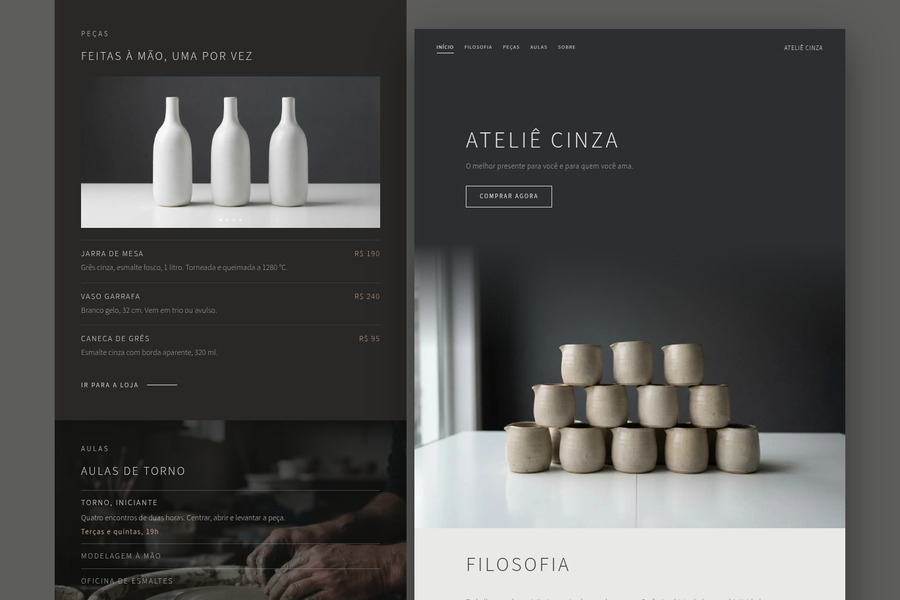
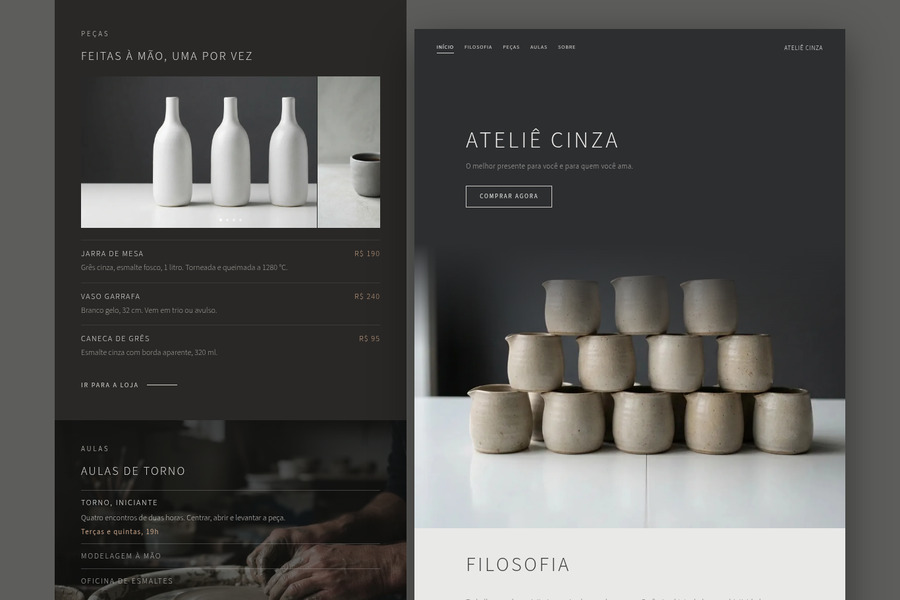
Ateliê Cinza: revisao a risca (jarras maiores, 2o slide, rodape mobile)

Changed region(s): [[0.4356, 0.42, 0.9644, 0.84], [0.3422, 0.12, 0.4356, 0.36], [0.4356, 0.81, 0.4667, 0.87]]

diff --git a/src/components/models/CinzaFold.tsx b/src/components/models/CinzaFold.tsx
@@ -41,7 +41,8 @@ export function CinzaFold({ client }: { client?: { name?: string; whatsapp?: str
         .cz .left .blk{padding:44px 40px 0}
         .cz .left h2{font-size:18px;color:#e9e7e4;margin-bottom:6px}
         .cz .car{position:relative;height:230px;margin-top:18px;background:#1a1a1a url(/cinza-vasos.webp) center 80%/cover no-repeat}
-        .cz .dots{display:flex;gap:6px;position:absolute;left:50%;bottom:10px;transform:translateX(-50%)}.cz .dots i{width:4px;height:4px;border-radius:50%;background:#fff;opacity:.5}.cz .dots i:first-child{opacity:1}
+        .cz .car:after{content:"";position:absolute;right:0;top:0;bottom:0;width:21%;background:#1a1a1a url(/cinza-copo.webp) center/cover no-repeat;border-left:1px solid #2a2927}
+        .cz .dots{z-index:2;display:flex;gap:6px;position:absolute;left:50%;bottom:10px;transform:translateX(-50%)}.cz .dots i{width:4px;height:4px;border-radius:50%;background:#fff;opacity:.5}.cz .dots i:first-child{opacity:1}
         .cz .pcs{margin-top:18px}.cz .pc{display:flex;justify-content:space-between;gap:16px;border-top:1px solid #3c3a37;padding:12px 0}
         .cz .pc h3{font-size:12px;letter-spacing:.14em;color:#e9e7e4}.cz .pc p{font-size:12px;line-height:1.55;color:#a9a7a3;margin:4px 0 0;font-weight:300;letter-spacing:0}.cz .pc b{font-weight:300;letter-spacing:.1em;color:${CL};font-size:12px;white-space:nowrap}
         .cz .more{display:inline-flex;gap:12px;align-items:center;margin-top:20px;font-size:10px;letter-spacing:.18em;text-transform:uppercase;color:#d8d6d2;text-decoration:none;cursor:pointer}.cz .more:after{content:"";width:46px;border-top:1px solid #d8d6d2}
@@ -62,7 +63,7 @@ export function CinzaFold({ client }: { client?: { name?: string; whatsapp?: str
         .cz nav.top .links{display:flex;gap:16px}.cz nav.top a{color:#d8d6d2;text-decoration:none;cursor:pointer;padding-bottom:3px;border-bottom:1px solid transparent}.cz nav.top a.on{border-color:#d8d6d2;color:#fff}
         .cz nav.top .lg{font-weight:300;color:#fff;font-size:9px}.cz .burger{display:none;background:none;border:0;color:#fff;font-size:26px;cursor:pointer}
         .cz .mob{position:fixed;inset:0;z-index:20;background:#1b1b1b;display:flex;flex-direction:column;justify-content:center;align-items:center;gap:30px;font-size:15px;letter-spacing:.2em;text-transform:uppercase}.cz .mob a{color:#fff;cursor:pointer}
-        .cz .hero{position:relative;color:#f3f2f0;background:linear-gradient(180deg,#2d2e30 0,#2d2e30 43%,rgba(45,46,48,0) 64%),url(/cinza-hero.webp) center bottom/100% auto no-repeat,#e9e9e8;padding:150px 0 0}
+        .cz .hero{position:relative;color:#f3f2f0;background:linear-gradient(180deg,#2d2e30 0,#2d2e30 43%,rgba(45,46,48,0) 64%),url(/cinza-hero.webp) 45% 100%/135% auto no-repeat,#e9e9e8;padding:150px 0 0}
         .cz .hero .in{padding:0 12%;position:relative;z-index:2}
         .cz .hero h1{font-size:clamp(24px,2.8vw,34px);color:#f3f2f0;line-height:1.15}
         .cz .hero p{margin:12px 0 22px;font-size:11px;letter-spacing:.04em;color:#bdbbb7;font-weight:300}
@@ -75,7 +76,7 @@ export function CinzaFold({ client }: { client?: { name?: string; whatsapp?: str
         .cz footer{background:#2a2826;padding:22px 20px;font-size:11px;letter-spacing:.14em;text-transform:uppercase;color:${MU}}.cz footer .wrap{max-width:1200px;margin:0 auto;display:flex;justify-content:space-between;gap:20px;flex-wrap:wrap}
         .cz .wa{position:fixed;right:22px;bottom:22px;width:56px;height:56px;border-radius:50%;background:#25d366;display:flex;align-items:center;justify-content:center;z-index:15;box-shadow:0 8px 22px rgba(0,0,0,.4)}
         @media(max-width:860px){
-          .cz .stage{grid-template-columns:1fr;padding:0 0 30px;display:flex;flex-direction:column}
+          .cz .stage{grid-template-columns:1fr;padding:0;background:#2a2826;display:flex;flex-direction:column}
           .cz .right{order:1;margin:0;box-shadow:none}.cz .left{order:2;margin:0}
           .cz nav.top{padding:18px 20px;font-size:10px}.cz nav.top .links{display:none}.cz .burger{display:block}
           .cz .hero{padding-top:110px}.cz .hero .in{padding:0 24px}.cz .fil{padding:30px 24px 40px}.cz .fil .cols{grid-template-columns:1fr;gap:18px}
